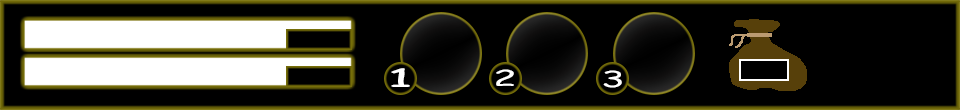
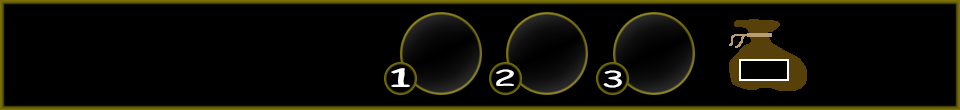
Kompatibilitaet

Changed region(s): [[0.0, 0.1364, 0.375, 0.8182]]

diff --git a/src/hhu/propra2013/gruppe55/HUD.java b/src/hhu/propra2013/gruppe55/HUD.java
@@ -6,74 +6,81 @@ public class HUD {
 	
 	private int fullScreenOffset;
 	private Font font;
-	private FontMetrics metr;
 	
 	public HUD(){
 		font = new Font("Comic Sans MS", Font.PLAIN, 13);
 	}
 	
 	// Zeichnen des HUD
-	public void draw(Graphics g2d, boolean full, int hp, int hpMax, int ausd, int ausdMax, int mana, int manaMax, int money, int equip){
-		metr = g2d.getFontMetrics(font);
-		if(!full){
-			// Zeichnen des Lebenspunktebalkens
-			g2d.setColor(Color.BLACK);
-			g2d.fillRect(20, -90+110, 355, 30);
-			g2d.setColor(Color.RED);
-			g2d.fillRect(20, -90+110, (int)(355*((double)hp/hpMax)), 30);
-			// Zeichnen des Manabalkens
-			g2d.setColor(Color.BLACK);
-			g2d.fillRect(20, -54+110, 355, 30);
-			g2d.setColor(Color.BLUE);
-			g2d.fillRect(20, -54+110, (int)(355*((double)mana/manaMax)), 30);
-			g2d.drawImage(Data.hud, 0, 0, null);
-			// Draw HUD-Values
-			g2d.setColor(Color.WHITE);
-			g2d.setFont(font);
-			g2d.drawString("" + hp + "/" + hpMax, 292, -66+110);
-			g2d.drawString("" + mana + "/" + manaMax, 292, -29+110);
-			g2d.drawString("" + money, 745, -35+110);
-			// Draw Weapon-Set-Selector
-			if(equip == 0){
-				g2d.drawImage(Data.hud_selector, 445, -51+110, null);
-			}
-			else if(equip == 1){
-				g2d.drawImage(Data.hud_selector, 551, -51, null);
-			}
-			else if(equip == 2){
-				g2d.drawImage(Data.hud_selector, 658, -51, null);
-			}
+	public void draw(Graphics g2d, boolean full, Player p){		
+		// FullScreenOffset setzen
+		if(full){
+			fullScreenOffset = (Toolkit.getDefaultToolkit().getScreenSize().width/2)-480;
 		}
 		else{
-			fullScreenOffset = (Toolkit.getDefaultToolkit().getScreenSize().width/2)-480;
-			g2d.setColor(Color.BLACK);
-			// Zeichnen des Lebenspunktebalkens
-			g2d.fillRect(20+fullScreenOffset, -90+110, 355, 30);
-			g2d.setColor(Color.RED);
-			g2d.fillRect(20+fullScreenOffset, -90+110, (int)(355*((double)hp/hpMax)), 30);
-			// Zeichnen des Manabalkens
-			g2d.setColor(Color.BLACK);
-			g2d.fillRect(20+fullScreenOffset, -54+110, 355, 30);
-			g2d.setColor(Color.BLUE);
-			g2d.fillRect(20+fullScreenOffset, -54+110, (int)(355*((double)mana/manaMax)), 30);
-			g2d.drawImage(Data.hud, 0+fullScreenOffset, -110+110, null);
-			// Draw HUD-Values
-			g2d.setColor(Color.WHITE);
-			g2d.setFont(font);
-			g2d.drawString("" + hp + "/" + hpMax, 292+fullScreenOffset, -66+110);
-			g2d.drawString("" + mana + "/" + manaMax, 292+fullScreenOffset, -29+110);
-			g2d.drawString("" + money, 745+fullScreenOffset, -35+110);
-			// Draw Weapon-Set-Selector
-			if(equip == 0){
-				g2d.drawImage(Data.hud_selector, 445+fullScreenOffset, -51+110, null);
+			fullScreenOffset = 0;
+		}
+		
+		g2d.drawImage(Data.hud, 0+fullScreenOffset, 0, null);
+		
+		int posX = 10;
+		int value = p.getHP();
+		int i = p.getHPMax();
+		
+		// HP-Container zeichnen
+		while(i > 0){
+			if(value > 1){
+				g2d.drawImage(Data.hud_Bottle_HP_Full, posX+fullScreenOffset, 15, null);
+				value -= 2;
+				i -= 2;
+				posX += 30;
 			}
-			else if(equip == 1){
-				g2d.drawImage(Data.hud_selector, 551+fullScreenOffset, -51+110, null);
+			else if(value == 1){
+				g2d.drawImage(Data.hud_Bottle_HP_Half, posX+fullScreenOffset, 15, null);
+				value -= 1;
+				i -= 2;
+				posX += 30;
 			}
-			else if(equip == 2){
-				g2d.drawImage(Data.hud_selector, 658+fullScreenOffset, -51+110, null);
+			else if(i > 1){
+				g2d.drawImage(Data.hud_Bottle_HP_Empty, posX+fullScreenOffset, 15, null);
+				i -= 2;
+				posX += 30;
 			}
 		}
-	}
+		
+		posX = 10;
+		value = p.getMana();
+		i = p.getManaMax();
+		
+		// MP-Container zeichnen
+		while(i > 0){
+			if(value >= 1){
+				g2d.drawImage(Data.hud_Crystal_Full, posX+fullScreenOffset, 60, null);
+				value--;
+				i--;
+				posX += 30;
+			}
+			else{
+				g2d.drawImage(Data.hud_Crystal_Empty, posX+fullScreenOffset, 60, null);
+				i--;
+				posX += 30;
+			}
+		}
 
+		g2d.setColor(Color.WHITE);
+		g2d.setFont(font);
+		g2d.drawString("" + p.getHP() + "/" + p.getHPMax(), 315+fullScreenOffset, -66+110);
+		g2d.drawString("" + p.getMana() + "/" + p.getManaMax(), 315+fullScreenOffset, -29+110);
+		g2d.drawString("" + p.getMoney(), 745+fullScreenOffset, -35+110);
+		// Draw Weapon-Set-Selector
+		if(p.getWeapSet() == 0){
+			g2d.drawImage(Data.hud_selector, 445+fullScreenOffset, -51+110, null);
+		}
+		else if(p.getWeapSet() == 1){
+			g2d.drawImage(Data.hud_selector, 551+fullScreenOffset, -51, null);
+		}
+		else if(p.getWeapSet() == 2){
+			g2d.drawImage(Data.hud_selector, 658+fullScreenOffset, -51, null);
+		}
+	}
 }

diff --git a/src/hhu/propra2013/gruppe55/Data.java b/src/hhu/propra2013/gruppe55/Data.java
@@ -21,8 +21,6 @@ public class Data {
 	// Levelrelevantes
 	static Image win = genImg("youwin.png");		// Siegbild
 	static Image gameover = genImg("gameover.png");	// Game Over
-	static Image hud = genImg("HUD.png");			// HUD
-	static Image hud_selector = genImg("HUD_Selector.png");			//HUD_Selector
 	static Image bks = genImg("bks.png");			// Hintergrund
 	// Umgebung des Levels
 	static Image wall = genImg("wall.png");			// Wand
@@ -36,6 +34,15 @@ public class Data {
 	// Fallen
 	static Image trap = genImg("trap.png");			// Speerfalle
 	static Image trapact = genImg("trapActivated.png");	// aktivierte Speerfalle
+	// HUD
+	static Image hud = genImg("HUD.png");			// HUD
+	static Image hud_selector = genImg("HUD_Selector.png");			//HUD_Selector
+	static Image hud_Bottle_HP_Full = genImg("HUD_Bottle_HP_Full.png");			//HUD_Selector
+	static Image hud_Bottle_HP_Half = genImg("HUD_Bottle_HP_Half.png");			//HUD_Selector
+	static Image hud_Bottle_HP_Empty = genImg("HUD_Bottle_HP_Empty.png");			//HUD_Selector
+	static Image hud_Crystal_Full = genImg("HUD_Crystal_MP_Full.png");			//HUD_Selector
+	static Image hud_Crystal_Empty = genImg("HUD_Crystal_MP_Empty.png");			//HUD_Selector
+	
 	
 // Waffen
 	// simples Schwert

diff --git a/src/hhu/propra2013/gruppe55/TestLevel.java b/src/hhu/propra2013/gruppe55/TestLevel.java
@@ -116,7 +116,7 @@ public class TestLevel extends JPanel implements ActionListener {
 					else if(lvlData[r][i][j] == 3){
 						playerSpawnX	=	i*32-5;
 						playerSpawnY	=	j*32-5;
-						player	=	new Player(playerSpawnX, playerSpawnY, 5, 0, 0, 100, 100);		// bei 3 wird ein Spielerobjekt generiert
+						player	=	new Player(playerSpawnX, playerSpawnY, 6, 0, 0, 100, 1);		// bei 3 wird ein Spielerobjekt generiert
 						staticList.get(r).add(new Grass(i*32, j*32));		// bei 0 wird Grass generiert
 					}
 					else if(lvlData[r][i][j] == 5){
@@ -255,7 +255,7 @@ public class TestLevel extends JPanel implements ActionListener {
 		g2d.translate(-(gw.getWidth()/2-player.getTX()), -(gw.getHeight()/2-player.getTY()));
 		
 		// HUD zeichnen
-		hud.draw(g2d, gw.fullscreen, player.getHP(), player.getHPMax(), player.getEnergy(), player.getEnergyMax(), player.getMana(), player.getManaMax(), player.getMoney(), player.getWeapSet());
+		hud.draw(g2d, gw.fullscreen, player);
 		
 		// Gameover / Win Bildschirm zeichnen
 		if(lose)
